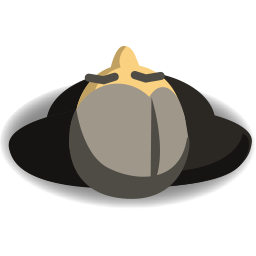
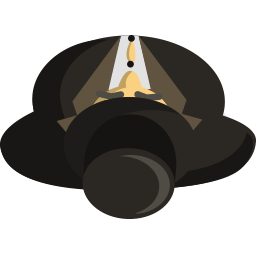
shooting fellow

diff --git a/fellow.py b/fellow.py
@@ -2,20 +2,38 @@ from game_object import GameObject
 import pygame
 from geometry import *
 import geometry
+from bullet import Bullet
+from heroes import Hero
 
 
-class Fellow(GameObject):
+class Fellow(Hero):
     def __init__(self, x, y, game):
-        super().__init__(x, y, 20, game)
+        super().__init__(x, y, 20, game, 'images/citizen.png')
+        self.shot_delay = 10
+        self.shoot_after = self.shot_delay
 
     def update(self):
         if len(self.game.enemies) == 0:
             return
 
         nearest = self._get_nearest_enemy()
+        self.rotation_vector = get_vector(
+            (self.x, self.y), (nearest.x, nearest.y))
         self.move_direction = geometry.get_vector(
             (self.x, self.y), (nearest.x, nearest.y))
         self.move(int(self.move_direction[0] * self.speed), int(self.move_direction[1] * self.speed))
+
+        if self.shoot_after <= 0:
+            self.shoot()
+            self.shoot_after = self.shot_delay
+        else:
+            self.shoot_after -= 1
+
+    def shoot(self):
+        self.game.objects.append(
+            Bullet(
+                self.x, self.y,
+                self.rotation_vector[0], self.rotation_vector[1], self.game, self))
 
     def _get_nearest_enemy(self):
         min_dist = self._get_distance_to(self.game.enemies[0])
@@ -31,8 +49,6 @@ class Fellow(GameObject):
     def _get_distance_to(self, object):
         return math.sqrt((self.x - object.x) ** 2 + (self.y - object.y) ** 2)
 
-    def draw(self):
-        pygame.draw.circle(self.game.surface, pygame.Color("white"), (self.x, self.y), self.radius)
 
     def handle_collisions(self, coll_objects):
         from enemy import Enemy

diff --git a/game.py b/game.py
@@ -10,7 +10,7 @@ import pygame.camera
 from collections import defaultdict
 from geometry import *
 
-MAX_ENEMIES_COUNT = 7
+MAX_ENEMIES_COUNT = 1
 MIN_DISTANCE_BETWEEN_PLAYER_AND_ENEMY = 100
 BACKGROUND_IMAGE_SIZE = 128
 
@@ -98,14 +98,19 @@ class Game:
             self.draw()
             self.display.blit(self.surface, self.camera_pos)
             CollisionsResolver.resolve_collisions(self.objects)
-            alive_objs = []
-            for object in self.objects:
-                if object.is_alive:
-                    alive_objs.append(object)
-            self.objects = alive_objs
+
+            self.objects = self.get_alive_objects(self.objects)
+            self.enemies = self.get_alive_objects(self.enemies)
 
             pygame.display.update()
             self.clock.tick(self.frame_rate)
+
+    def get_alive_objects(self, objs):
+        alive_objs = []
+        for obj in objs:
+            if obj.is_alive:
+                alive_objs.append(obj)
+        return alive_objs
 
     def create_enemy(self):
         x = random.randrange(self.surface.get_height())

diff --git a/bullet.py b/bullet.py
@@ -1,0 +1,21 @@
+import pygame
+from game_object import GameObject
+
+class Bullet(GameObject):
+    def __init__(self, x, y, dir_x, dir_y, game, owner):
+        super().__init__(x, y, 5, game)
+        self.speed = 10
+        self.move_direction = (dir_x, dir_y)
+        self.owner = owner
+
+    def update(self):
+        self.move(int(self.move_direction[0] * self.speed),
+                  int(self.move_direction[1] * self.speed))
+
+    def draw(self):
+        pygame.draw.circle(self.game.surface, pygame.Color('black'), (self.x, self.y), 2)
+
+    def handle_collisions(self, coll_objects):
+        for object in coll_objects:
+            if object != self.owner:
+                self.is_alive = False

diff --git a/player.py b/player.py
@@ -39,7 +39,9 @@ class Player(Hero):
 
         self.move_direction = geometry.normalize_direction((x, y))
         self.move(int(self.move_direction[0] * self.speed), int(self.move_direction[1] * self.speed))
-        self.on_pos_changed(int(self.move_direction[0] * self.speed), int(self.move_direction[1] * self.speed), self.x, self.y)
+        self.on_pos_changed(
+            int(self.move_direction[0] * self.speed),
+            int(self.move_direction[1] * self.speed), self.x, self.y)
 
     def on_released(self, key):
         self.pressed.remove(key)

diff --git a/enemy.py b/enemy.py
@@ -4,6 +4,7 @@ from fellow import Fellow
 from heroes import Hero
 import pygame
 from geometry import *
+from bullet import Bullet
 
 
 class Enemy(Hero):
@@ -36,6 +37,8 @@ class Enemy(Hero):
     def handle_collisions(self, coll_objects):
         for object in coll_objects:
             if isinstance(object, ForceField) or isinstance(object, Fellow):
+                self.is_alive = False
+            elif isinstance(object, Bullet):
                 self.is_alive = False
 
     def check_collision_with_other_enemies(self, dx, dy):
